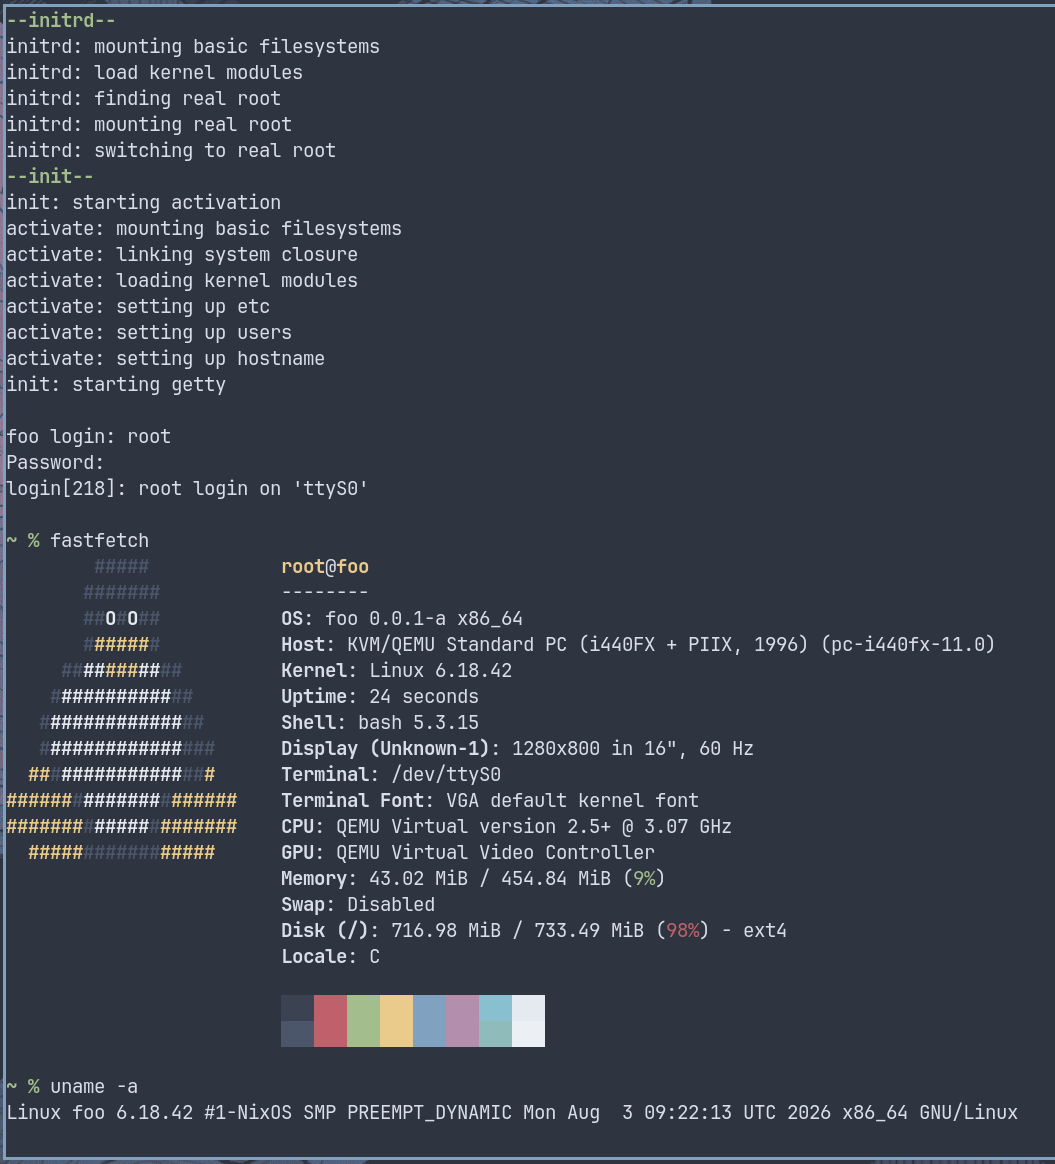
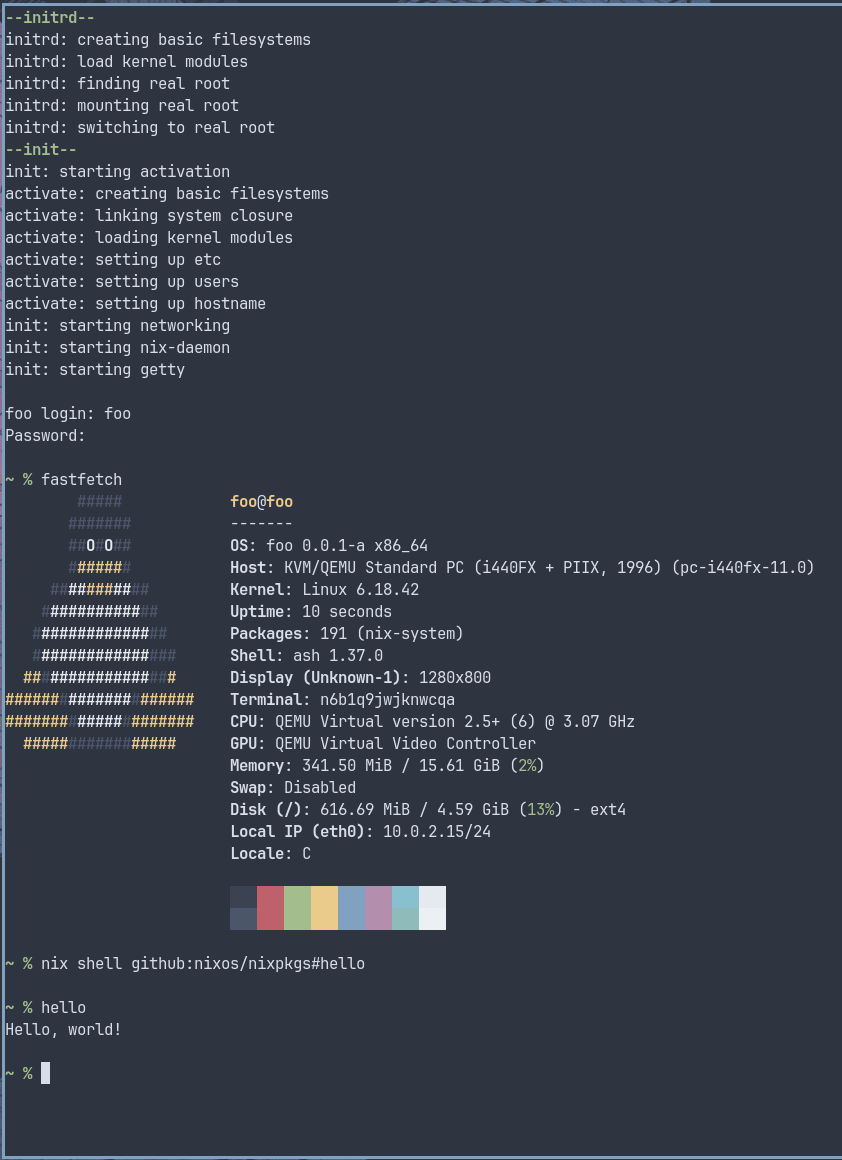
feat: add networking in example

diff --git a/README.md b/README.md
@@ -41,6 +41,7 @@ An example is provided which uses foo to build a minimal system with:
 1. NixOS-like activation and system closure
 2. /etc as a erofs overlay
 3. Multi-user Nix package manager
+4. Basic networking
 
 To build the example:
 
